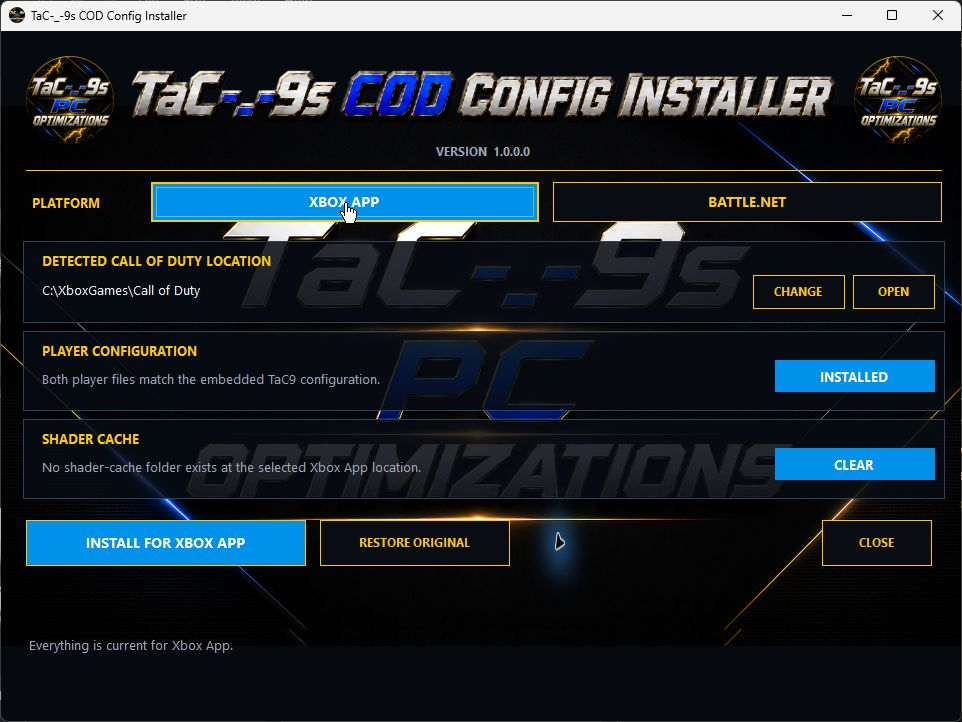
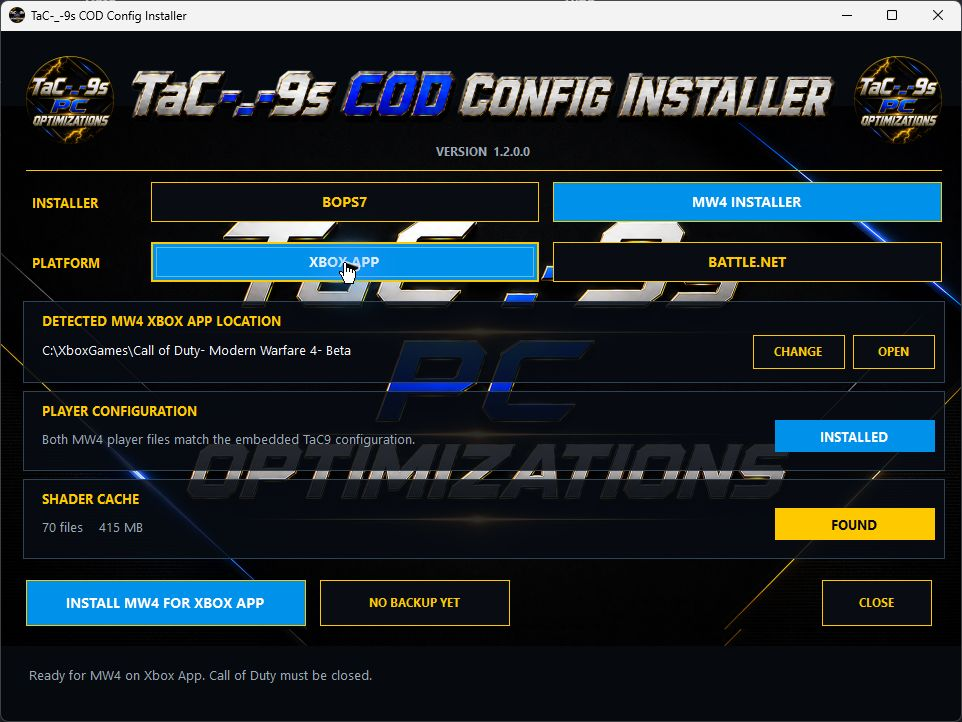
Add MW4 Xbox COD installer support

Changed region(s): [[0.0, 0.2438, 1.0, 0.9446], [0.0312, 0.2742, 0.1247, 0.3047], [0.499, 0.8532, 0.5301, 0.8837]]

diff --git a/README.md b/README.md
@@ -6,6 +6,11 @@ Everything is together in one launcher so you do not have to search through fold
 
 ## Latest Update: 11.2.0.45
 
+- Added one COD Config Installer with separate BOPS7 and MW4 modes
+- Added MW4 support for both Xbox App and Battle.net, including exact store-specific shader-cache detection
+- Refreshed the embedded BOPS7 and MW4 player configuration files
+- Added a shared first-seen MW4 backup so changing platforms cannot replace the customer's original backup with an already-modified file
+- Added strict platform-aware path checks that refuse Xbox and Battle.net shader-cache paths in the wrong mode
 - Fixed Personal Settings so Explorer-related changes no longer open repeated This PC windows; the shell-only refresh is safely deferred until the required restart
 - Fixed Fresh Open ISLC and Open ISLC so a saved start-minimized setting cannot leave the real ISLC window hidden
 - Updated ISLC free-memory presets to 15000 MB for 32 GB RAM and 30000 MB for 64 GB RAM
@@ -45,7 +50,14 @@ The advanced review window preselects only high-confidence owned leftovers and i
 
 ### COD Config Installer
 
-Installs the embedded TaC9 Call of Duty player configuration for the Xbox App or Battle.net version, clears only the selected installation's validated shader cache, and keeps a first-seen backup for one-click restore. The utility is included in the suite and does not require a suite license key.
+The installer now has separate **BOPS7** and **MW4** buttons. Both modes support Xbox App and Battle.net, replace only the two matching player configuration files, clear only the selected installation's validated shader-cache folder, and preserve the customer's first-seen originals for one-click restore. The utility is included in the suite and does not require a suite license key.
+
+- BOPS7 player files: `%LOCALAPPDATA%\Activision\Call of Duty\players`
+- MW4 player files: `%LOCALAPPDATA%\Activision\Call of Duty\playersBeta`
+- MW4 Xbox shader cache: `XboxGames\Call of Duty- Modern Warfare 4- Beta\Content\cod26\shadercache`
+- MW4 Battle.net shader cache: `Call of Duty\_beta_\cod26\shadercache`
+
+The MW4 Xbox and Battle.net modes intentionally share one original-file backup because both stores use the same `playersBeta` destination. Unrelated player files are left alone, and a path that does not match the selected game and platform is refused before any file is changed.
 
 ## Features
 
@@ -60,7 +72,7 @@ Installs the embedded TaC9 Call of Duty player configuration for the Xbox App or
 - Windows app debloat and cleanup
 - Reviewed multi-app leftover cleanup with duplicate detection and safety exclusions
 - Cleanup manifests plus required registry and scheduled-task backups
-- Xbox App and Battle.net COD configuration installer
+- BOPS7 and MW4 configuration installer for Xbox App and Battle.net
 - Guarded Call of Duty shader-cache cleanup and original-file restore
 - Check for Updates button
 - TaC-_-9s themed interface and icons
@@ -120,4 +132,4 @@ For purchases, license help, HWID resets, or support, make a ticket in the TaC-_
 
 ### COD Config Installer
 
-![TaC9 COD Config Installer Xbox App view](docs/screenshots/cod-config-installer.png)
+![TaC9 COD Config Installer showing MW4 Xbox App mode](docs/screenshots/cod-config-installer.png)
